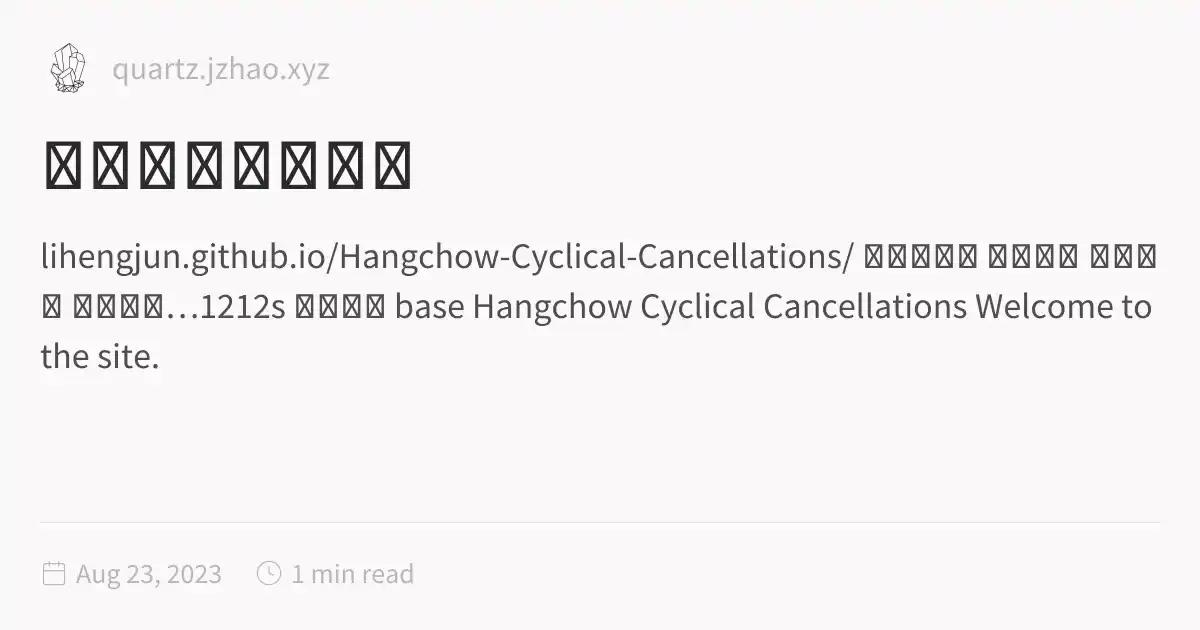
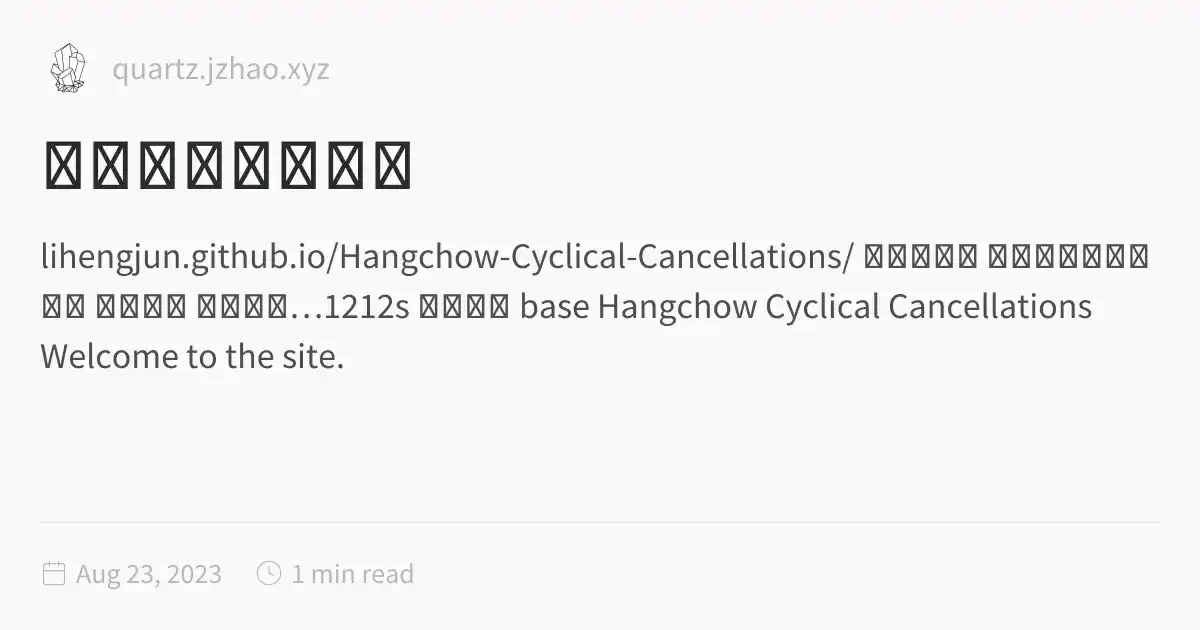
deploy: lihengjun/my-obsidian-vault@73328f5864d7b556d4649b3f39daa428d1b42538

Changed region(s): [[0.0308, 0.4524, 0.9558, 0.5127], [0.0308, 0.5429, 0.2775, 0.6032], [0.8942, 0.3619, 0.9867, 0.4222]]

diff --git a/news/index.html b/news/index.html
@@ -116,6 +116,6 @@ pre:hover > .expand-button {
   padding: 0 12px;
   font-size: 14px;
 }
[2 lines of base64/hex data omitted]
 </script><script type="module">function f(i,e){if(!i)return;function r(o){o.target===this&&(o.preventDefault(),o.stopPropagation(),e())}function t(o){o.key.startsWith("Esc")&&(o.preventDefault(),e())}i?.addEventListener("click",r),window.addCleanup(()=>i?.removeEventListener("click",r)),document.addEventListener("keydown",t),window.addCleanup(()=>document.removeEventListener("keydown",t))}function y(i){for(;i.firstChild;)i.removeChild(i.firstChild)}var h=class{constructor(e,r){this.container=e;this.content=r;this.setupEventListeners(),this.setupNavigationControls(),this.resetTransform()}isDragging=!1;startPan={x:0,y:0};currentPan={x:0,y:0};scale=1;MIN_SCALE=.5;MAX_SCALE=3;cleanups=[];setupEventListeners(){let e=this.onMouseDown.bind(this),r=this.onMouseMove.bind(this),t=this.onMouseUp.bind(this),o=this.resetTransform.bind(this);this.container.addEventListener("mousedown",e),document.addEventListener("mousemove",r),document.addEventListener("mouseup",t),window.addEventListener("resize",o),this.cleanups.push(()=>this.container.removeEventListener("mousedown",e),()=>document.removeEventListener("mousemove",r),()=>document.removeEventListener("mouseup",t),()=>window.removeEventListener("resize",o))}cleanup(){for(let e of this.cleanups)e()}setupNavigationControls(){let e=document.createElement("div");e.className="mermaid-controls";let r=this.createButton("+",()=>this.zoom(.1)),t=this.createButton("-",()=>this.zoom(-.1)),o=this.createButton("Reset",()=>this.resetTransform());e.appendChild(t),e.appendChild(o),e.appendChild(r),this.container.appendChild(e)}createButton(e,r){let t=document.createElement("button");return t.textContent=e,t.className="mermaid-control-button",t.addEventListener("click",r),window.addCleanup(()=>t.removeEventListener("click",r)),t}onMouseDown(e){e.button===0&&(this.isDragging=!0,this.startPan={x:e.clientX-this.currentPan.x,y:e.clientY-this.currentPan.y},this.container.style.cursor="grabbing")}onMouseMove(e){this.isDragging&&(e.preventDefault(),this.currentPan={x:e.clientX-this.startPan.x,y:e.clientY-this.startPan.y},this.updateTransform())}onMouseUp(){this.isDragging=!1,this.container.style.cursor="grab"}zoom(e){let r=Math.min(Math.max(this.scale+e,this.MIN_SCALE),this.MAX_SCALE),t=this.content.getBoundingClientRect(),o=t.width/2,n=t.height/2,c=r-this.scale;this.currentPan.x-=o*c,this.currentPan.y-=n*c,this.scale=r,this.updateTransform()}updateTransform(){this.content.style.transform=`translate(${this.currentPan.x}px, ${this.currentPan.y}px) scale(${this.scale})`}resetTransform(){this.scale=1;let e=this.content.querySelector("svg");this.currentPan={x:e.getBoundingClientRect().width/2,y:e.getBoundingClientRect().height/2},this.updateTransform()}},C=["--secondary","--tertiary","--gray","--light","--lightgray","--highlight","--dark","--darkgray","--codeFont"],E;document.addEventListener("nav",async()=>{let e=document.querySelector(".center").querySelectorAll("code.mermaid");if(e.length===0)return;E||=await import("https://cdnjs.cloudflare.com/ajax/libs/mermaid/11.4.0/mermaid.esm.min.mjs");let r=E.default,t=new WeakMap;for(let n of e)t.set(n,n.innerText);async function o(){for(let s of e){s.removeAttribute("data-processed");let a=t.get(s);a&&(s.innerHTML=a)}let n=C.reduce((s,a)=>(s[a]=window.getComputedStyle(document.documentElement).getPropertyValue(a),s),{}),c=document.documentElement.getAttribute("saved-theme")==="dark";r.initialize({startOnLoad:!1,securityLevel:"loose",theme:c?"dark":"base",themeVariables:{fontFamily:n["--codeFont"],primaryColor:n["--light"],primaryTextColor:n["--darkgray"],primaryBorderColor:n["--tertiary"],lineColor:n["--darkgray"],secondaryColor:n["--secondary"],tertiaryColor:n["--tertiary"],clusterBkg:n["--light"],edgeLabelBackground:n["--highlight"]}}),await r.run({nodes:e})}await o(),document.addEventListener("themechange",o),window.addCleanup(()=>document.removeEventListener("themechange",o));for(let n=0;n<e.length;n++){let v=function(){let g=l.querySelector("#mermaid-space"),m=l.querySelector(".mermaid-content");if(!m)return;y(m);let w=c.querySelector("svg").cloneNode(!0);m.appendChild(w),l.classList.add("active"),g.style.cursor="grab",u=new h(g,m)},M=function(){l.classList.remove("active"),u?.cleanup(),u=null},c=e[n],s=c.parentElement,a=s.querySelector(".clipboard-button"),d=s.querySelector(".expand-button"),p=window.getComputedStyle(a),L=a.offsetWidth+parseFloat(p.marginLeft||"0")+parseFloat(p.marginRight||"0");d.style.right=`calc(${L}px + 0.3rem)`,s.prepend(d);let l=s.querySelector("#mermaid-container");if(!l)return;let u=null;d.addEventListener("click",v),f(l,M),window.addCleanup(()=>{u?.cleanup(),d.removeEventListener("click",v)})}});
 </script><script src="https://cdn.jsdelivr.net/npm/katex@0.16.11/dist/contrib/copy-tex.min.js" type="application/javascript"></script><script src="../postscript.js" type="module"></script></html>

diff --git a/other.html b/other.html
@@ -116,7 +116,7 @@ pre:hover > .expand-button {
   padding: 0 12px;
   font-size: 14px;
 }
[2 lines of base64/hex data omitted]
                 s-3.542,0.634-4.898,1.688l-7.669-7.669C16.785,10.424,17,9.74,17,9c0-2.206-1.794-4-4-4S9,6.794,9,9s1.794,4,4,4
                 c0.74,0,1.424-0.215,2.019-0.567l7.669,7.669C21.634,21.458,21,23.154,21,25s0.634,3.542,1.688,4.897L10.024,42.562
                 C8.958,41.595,7.549,41,6,41c-3.309,0-6,2.691-6,6s2.691,6,6,6s6-2.691,6-6c0-1.035-0.263-2.009-0.726-2.86l12.829-12.829

diff --git a/index.html b/index.html
@@ -1,5 +1,5 @@
 <!DOCTYPE html>
-<html lang="en"><head><title>杭州城幹支戳蓃集</title><meta charset="utf-8"/><link rel="preconnect" href="https://fonts.googleapis.com"/><link rel="preconnect" href="https://fonts.gstatic.com"/><link rel="stylesheet" href="https://fonts.googleapis.com/css2?family=Schibsted Grotesk:wght@400;700&amp;family=Source Sans Pro:ital,wght@0,400;0,600;1,400;1,600&amp;family=IBM Plex Mono:wght@400;600&amp;display=swap"/><link rel="preconnect" href="https://cdnjs.cloudflare.com" crossorigin="anonymous"/><meta name="viewport" content="width=device-width, initial-scale=1.0"/><meta name="og:site_name" content="Quartz 4"/><meta property="og:title" content="杭州城幹支戳蓃集"/><meta property="og:type" content="website"/><meta name="twitter:card" content="summary_large_image"/><meta name="twitter:title" content="杭州城幹支戳蓃集"/><meta name="twitter:description" content="lihengjun.github.io/Hangchow-Cyclical-Cancellations/ 天涯浮生录 奇奇怪怪 内容标题 你的内容…1212s 编辑内容 base Hangchow Cyclical Cancellations Welcome to the site."/><meta property="og:description" content="lihengjun.github.io/Hangchow-Cyclical-Cancellations/ 天涯浮生录 奇奇怪怪 内容标题 你的内容…1212s 编辑内容 base Hangchow Cyclical Cancellations Welcome to the site."/><meta property="og:image:alt" content="lihengjun.github.io/Hangchow-Cyclical-Cancellations/ 天涯浮生录 奇奇怪怪 内容标题 你的内容…1212s 编辑内容 base Hangchow Cyclical Cancellations Welcome to the site."/><meta property="twitter:domain" content="quartz.jzhao.xyz"/><meta property="og:url" content="https://quartz.jzhao.xyz/index"/><meta property="twitter:url" content="https://quartz.jzhao.xyz/index"/><link rel="icon" href="./static/icon.png"/><meta name="description" content="lihengjun.github.io/Hangchow-Cyclical-Cancellations/ 天涯浮生录 奇奇怪怪 内容标题 你的内容…1212s 编辑内容 base Hangchow Cyclical Cancellations Welcome to the site."/><meta name="generator" content="Quartz"/><link href="./index.css" rel="stylesheet" type="text/css" spa-preserve/><style>.expand-button {
+<html lang="en"><head><title>杭州城幹支戳蓃集</title><meta charset="utf-8"/><link rel="preconnect" href="https://fonts.googleapis.com"/><link rel="preconnect" href="https://fonts.gstatic.com"/><link rel="stylesheet" href="https://fonts.googleapis.com/css2?family=Schibsted Grotesk:wght@400;700&amp;family=Source Sans Pro:ital,wght@0,400;0,600;1,400;1,600&amp;family=IBM Plex Mono:wght@400;600&amp;display=swap"/><link rel="preconnect" href="https://cdnjs.cloudflare.com" crossorigin="anonymous"/><meta name="viewport" content="width=device-width, initial-scale=1.0"/><meta name="og:site_name" content="Quartz 4"/><meta property="og:title" content="杭州城幹支戳蓃集"/><meta property="og:type" content="website"/><meta name="twitter:card" content="summary_large_image"/><meta name="twitter:title" content="杭州城幹支戳蓃集"/><meta name="twitter:description" content="lihengjun.github.io/Hangchow-Cyclical-Cancellations/ 天涯浮生录 哈哈哈哈哈哈哈哈哈 内容标题 你的内容…1212s 编辑内容 base Hangchow Cyclical Cancellations Welcome to the site."/><meta property="og:description" content="lihengjun.github.io/Hangchow-Cyclical-Cancellations/ 天涯浮生录 哈哈哈哈哈哈哈哈哈 内容标题 你的内容…1212s 编辑内容 base Hangchow Cyclical Cancellations Welcome to the site."/><meta property="og:image:alt" content="lihengjun.github.io/Hangchow-Cyclical-Cancellations/ 天涯浮生录 哈哈哈哈哈哈哈哈哈 内容标题 你的内容…1212s 编辑内容 base Hangchow Cyclical Cancellations Welcome to the site."/><meta property="twitter:domain" content="quartz.jzhao.xyz"/><meta property="og:url" content="https://quartz.jzhao.xyz/index"/><meta property="twitter:url" content="https://quartz.jzhao.xyz/index"/><link rel="icon" href="./static/icon.png"/><meta name="description" content="lihengjun.github.io/Hangchow-Cyclical-Cancellations/ 天涯浮生录 哈哈哈哈哈哈哈哈哈 内容标题 你的内容…1212s 编辑内容 base Hangchow Cyclical Cancellations Welcome to the site."/><meta name="generator" content="Quartz"/><link href="./index.css" rel="stylesheet" type="text/css" spa-preserve/><style>.expand-button {
   position: absolute;
   display: flex;
   float: right;
@@ -118,7 +118,7 @@ pre:hover > .expand-button {
 }
[1 lines of base64/hex data omitted]
 <p>天涯浮生录
-奇奇怪怪</p>
+哈哈哈哈哈哈哈哈哈</p>
 <h1 id="内容标题">内容标题<a role="anchor" aria-hidden="true" tabindex="-1" data-no-popover="true" href="#内容标题" class="internal"><svg width="18" height="18" viewBox="0 0 24 24" fill="none" stroke="currentColor" stroke-width="2" stroke-linecap="round" stroke-linejoin="round"><path d="M10 13a5 5 0 0 0 7.54.54l3-3a5 5 0 0 0-7.07-7.07l-1.72 1.71"></path><path d="M14 11a5 5 0 0 0-7.54-.54l-3 3a5 5 0 0 0 7.07 7.07l1.71-1.71"></path></svg></a></h1>
 <p>你的内容…1212s</p>
 <p>编辑内容</p>
